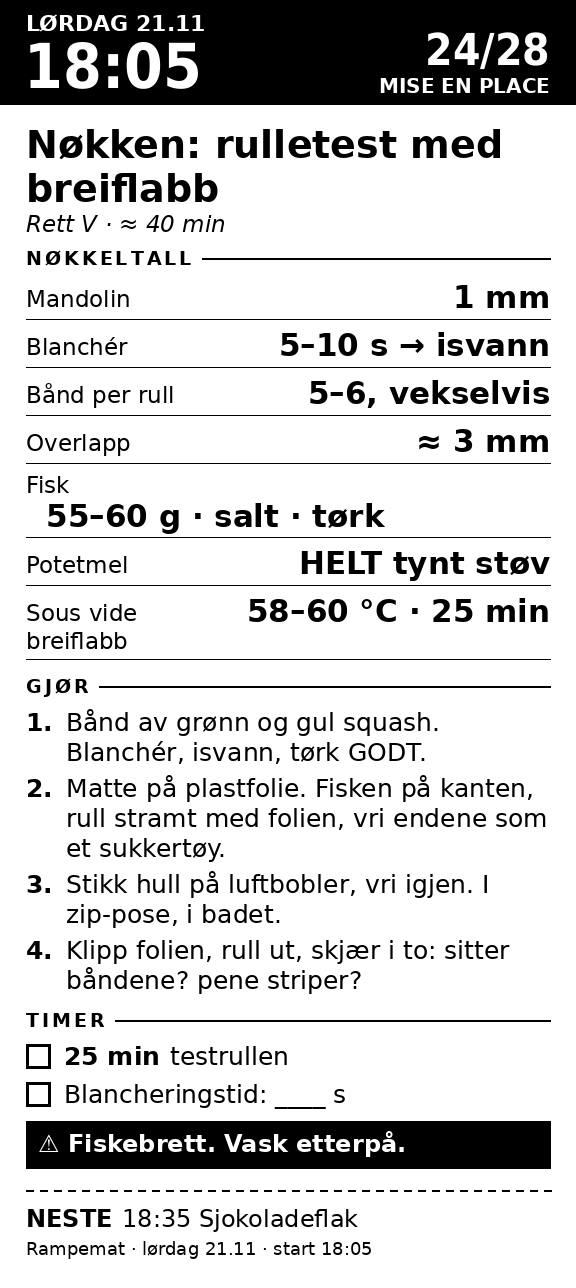
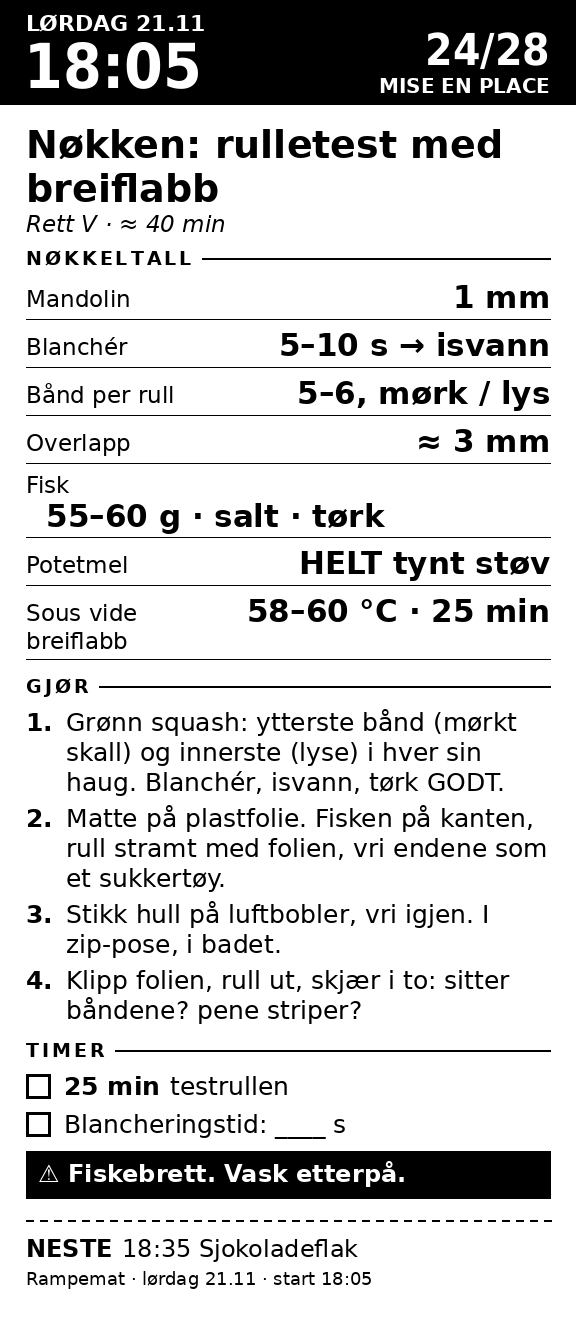
Middag: berre grøn squash, mørke og lyse band
Claude-Session: https://claude.ai/code/session_01EoZJ6UZAoYjYv2y19fhZi1

diff --git a/middag/lag.py b/middag/lag.py
@@ -313,10 +313,10 @@ PREP = [
       "Sjalott i lufttett boks med kjøkkenpapir."],
      ["Tid sopp: ______"], ["Egen olje: ikke brukt til noe panert eller svin."]),
     ("lør", "18:05", "Nøkken: rulletest med breiflabb", "V", "40 min",
-     [("Mandolin", "1 mm"), ("Blanchér", "5–10 s → isvann"), ("Bånd per rull", "5–6, vekselvis"),
+     [("Mandolin", "1 mm"), ("Blanchér", "5–10 s → isvann"), ("Bånd per rull", "5–6, mørk / lys"),
       ("Overlapp", "≈ 3 mm"), ("Fisk", "55–60 g · salt · tørk"), ("Potetmel", "HELT tynt støv"),
       ("Sous vide breiflabb", "58–60 °C · 25 min")],
-     ["Bånd av grønn og gul squash. Blanchér, isvann, tørk GODT.",
+     ["Grønn squash: ytterste bånd (mørkt skall) og innerste (lyse) i hver sin haug. Blanchér, isvann, tørk GODT.",
       "Matte på plastfolie. Fisken på kanten, rull stramt med folien, vri endene som et sukkertøy.",
       "Stikk hull på luftbobler, vri igjen. I zip-pose, i badet.",
       "Klipp folien, rull ut, skjær i to: sitter båndene? pene striper?"],
@@ -364,7 +364,7 @@ PREP = [
       "Salt, vent 15 min, tørk godt. Tildekket på is i kjøleskapet."],
      ["15 min|tørk av kveita"], ["Fiskebrett. Vask etterpå."]),
     ("søn", "11:30", "Squashbånd + maitake", "V · IV", "20 min",
-     [("Mandolin", "1 mm"), ("Blanchér", "testtiden (5–10 s)"), ("Grønn + gul", "≈ 20 bånd hver")],
+     [("Mandolin", "1 mm"), ("Blanchér", "testtiden (5–10 s)"), ("Mørke (skall) + lyse", "≈ 18 av hver")],
      ["Skjær bånd på langs (dropp kjernen). Blanchér, isvann, tørk på håndklær.",
       "Valgfritt: stek maitake brun med litt olje + timian (IV)."], [], []),
     ("søn", "12:00", "Lunsj (liten!)", None, "30 min", [], ["Det kommer mye mat senere."], [], []),
@@ -384,7 +384,7 @@ PREP = [
      [], ["Fylte løk, sellerirot-terninger og purre ut på benken (tildekket)."], [], []),
     ("søn", "14:00", "Tortillas · kveiteruller", "VI · V", "40 min",
      [("Press til", "≈ 7 cm · 1,5 mm"), ("Stikk ut", "5,5–6 cm"), ("Tørr, varm panne", "30 / 40 / 15–20 s"),
-      ("Kveiteruller", "6 stk · 5–6 bånd"), ("Vekselvis", "grønn / gul"), ("Potetmel på fisken", "helt tynt")],
+      ("Kveiteruller", "6 stk · 5–6 bånd"), ("Vekselvis", "mørk / lys"), ("Potetmel på fisken", "helt tynt")],
      ["Press, stikk ut, stek (snu, snu, den skal puste seg opp). Klut + folie.",
       "Matte på plastfolie, kveita på kanten, rull stramt, vri endene. Prikk luftbobler.",
       "Rullene i zip-pose, kjøleskap til 16:40."], [], ["Fiskebrett. Vask etterpå."]),
@@ -642,7 +642,7 @@ RESTEN = render_note("HANDLE RESTEN", "LØRDAG 21.11", [
     ("#MANGLER", None),
     ("BOKSER", ["tyttebær frosne 250 g", "solbær frosne 150–200 g", "1 liten fenikel",
                 "soya-plantefløte 400–500 ml", "bokhvetemel GF", "bokhvetekjerner 50 g",
-                "ananas, liten boks (al pastor)", "squash: 2 grønne + 2 gule totalt"]),
+                "ananas, liten boks (al pastor)", "grønn squash: 3–4 totalt"]),
     ("#VALGFRITT", None),
     ("BOKSER", ["persille (ellers mer dill + gressløk)", "achiote-pasta / tørket guajillo",
                 "koriander"]),
